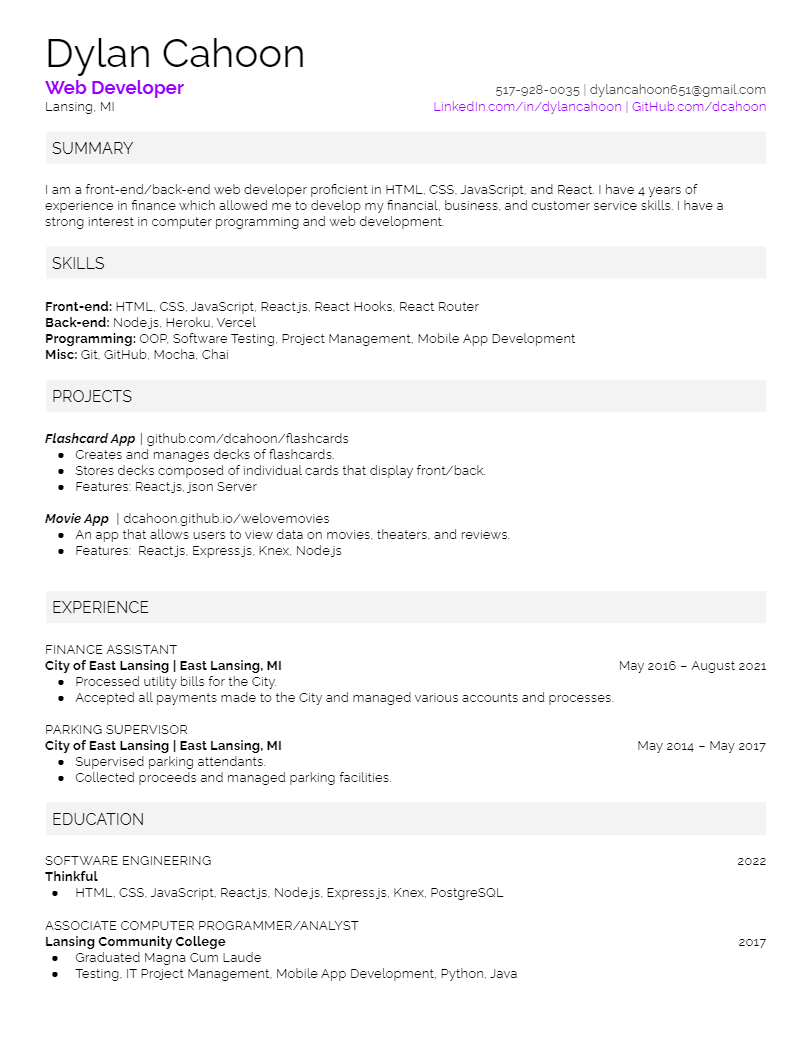
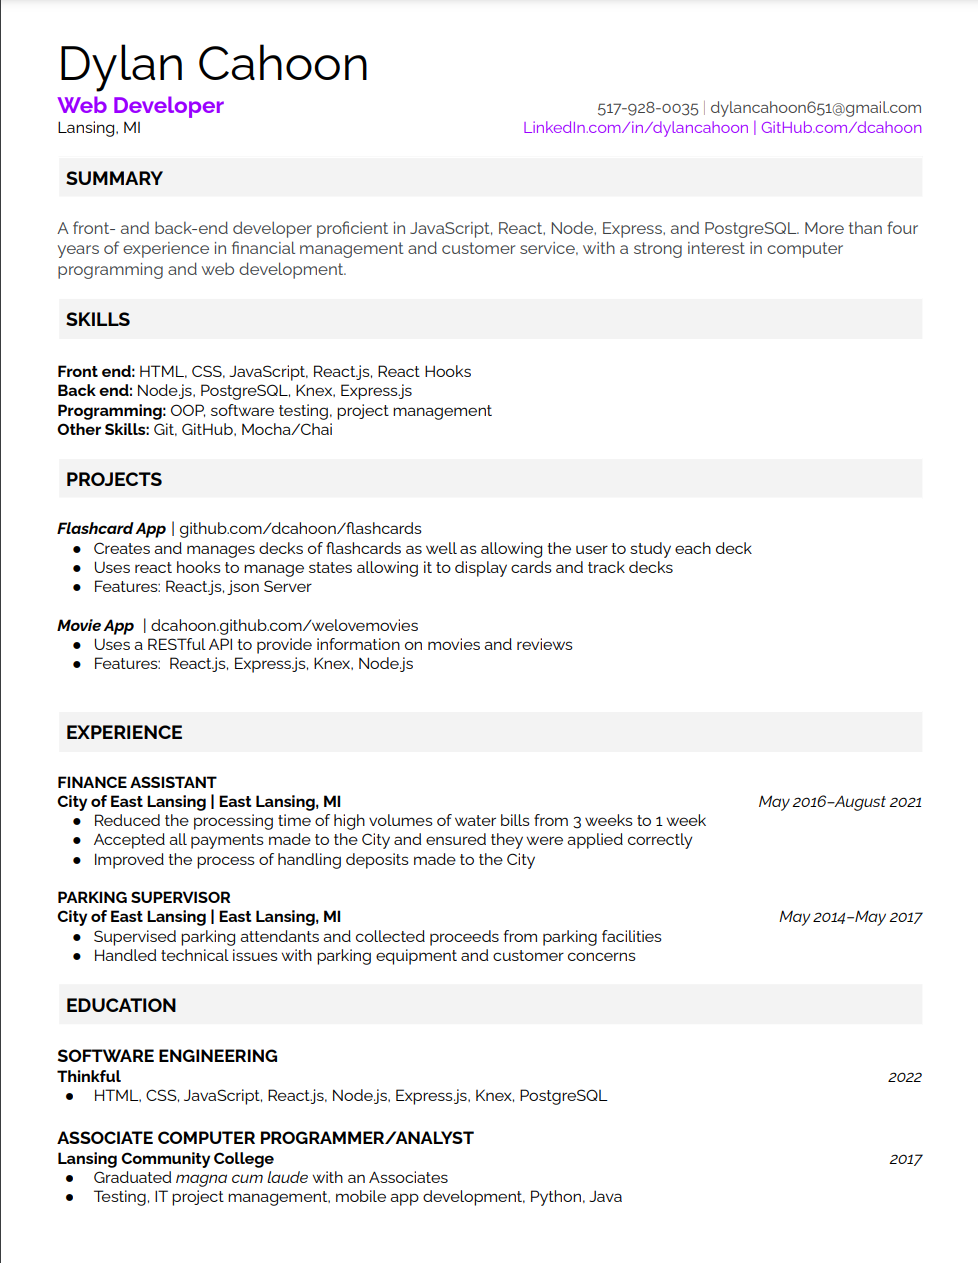
added resume and contact content. major styling/background changes

diff --git a/src/AltApp.js b/src/AltApp.js
@@ -12,6 +12,11 @@ import github_icon from "./images/github_icon.jpg"
 import postman_icon from "./images/postman_icon.png"
 import react_router_icon from "./images/react_router_icon.jpg"
 import heroku_icon from "./images/heroku_icon.png"
+import bootstrap_icon from "./images/bootstrap_icon.png"
+import resume from "./images/resume.png"
+import email from "./images/email.png"
+import linkedin from "./images/linkedin.png"
+import github from "./images/github.png"
 
 
 export default function AltApp() {
@@ -55,14 +60,19 @@ export default function AltApp() {
             <section id="resume">
                 <Nav />
                 <div className="row p-5">
-                    <p className="col-12 display-2 p-4">
-                        Resume (content coming soon)
-                    </p>
+                    <div className="col-12 d-flex p-3">
+                        <button className="col-8 large-link btn" href="#">
+                            view resume
+                        </button>
+                        <div className="col-4 d-flex justify-content-center">
+                            <img className="img-fluid p-4 resume align-content-center" src={resume}></img>
+                        </div>
+                    </div> 
                 </div>
             </section>
 
             <section id="skills">
-                <Nav />
+                <Nav black={true} />
                 <div className="row p-5">
                     <p className="display-2 p-4 col-12">Skills</p>
                 </div>
@@ -79,15 +89,28 @@ export default function AltApp() {
                     <img src={react_router_icon} className="icon-img"></img>
                     <img src={postman_icon} className="icon-img"></img>
                     <img src={heroku_icon} className="icon-img"></img>
+                    <img src={bootstrap_icon} className="icon-img"></img>
                 </div>
             </section>
 
             <section id="contact">
                 <Nav />
-                <div className="row p-5">
-                    <p className="col-12 display-2 p-4">
-                        Contact (content coming soon)
-                    </p>
+                <div className="row p-5 d-flex">
+                    <div className="col-12 p-4">
+                        <a href="http://www.linkedin.com/in/dylancahoon" target="_blank">
+                            <img className="img-fluid large-link" src={linkedin}></img>
+                        </a>
+                    </div>
+                    <div className="col-6 p-4">
+                        <a href="https://www.github.com/dcahoon" target="_blank">
+                            <img className="img-fluid large-link" src={github}></img>
+                        </a>
+                    </div>
+                    <div className="col-6 p-4">
+                        <a href="mailto:dylancahoon651@yahoo.com">
+                            <img className="img-fluid large-link" src={email}></img>
+                        </a>
+                    </div>
                 </div>
             </section>
 

diff --git a/src/Nav.js b/src/Nav.js
@@ -3,19 +3,39 @@ export default function Nav({ black }) {
         <nav className="navbar navbar-expand-lg justify-content-end">           
             <ul className="navbar-nav">
                 <li className="nav-item">
-                    { black ? <a className="nav-link-black nav-link" href="#home">home</a> : <a className="nav-link" href="#home">home</a> }
+                    { 
+                        black ?
+                            <a className="nav-link" id="black" href="#home">home</a> :
+                            <a className="nav-link" href="#home">home</a> 
+                    }
                 </li>
                 <li className="nav-item">
-                    <a className="nav-link" href="#about">about</a>
+                    { 
+                        black ?
+                            <a className="nav-link" id="black" href="#about">about</a> :
+                            <a className="nav-link" href="#about">about</a> 
+                    }
                 </li>
                 <li className="nav-item">
-                    <a className="nav-link" href="#resume">resume</a>
+                    { 
+                        black ?
+                            <a className="nav-link" id="black" href="#resume">resume</a> :
+                            <a className="nav-link" href="#resume">resume</a> 
+                    }
                 </li>
                 <li className="nav-item">
-                    <a className="nav-link" href="#skills">skills</a>
+                    { 
+                        black ?
+                            <a className="nav-link" id="black" href="#skills">skills</a> :
+                            <a className="nav-link" href="#skills">skills</a> 
+                    }
                 </li>
                 <li className="nav-item">
-                    <a className="nav-link" href="#contact">contact</a>
+                    { 
+                        black ?
+                            <a className="nav-link" id="black" href="#contact">contact</a> :
+                            <a className="nav-link" href="#contact">contact</a> 
+                    }
                 </li>
             </ul>
         </nav>

diff --git a/src/App.css b/src/App.css
@@ -13,7 +13,7 @@
 .zen-dots { font-family: 'Zen Dots', cursive; }
 .left-margin { margin-left: 5% }
 .white { color: #fff; }
-.black { color: #000; }
+#black { color: #000; }
 .name-header { margin-top: 11rem; }
 .size-1 { font-size: 1rem; }
 .size-1-25 { font-size: 1.25rem }
@@ -45,18 +45,37 @@ section {
 }
 
 .hero-section {
-    background-image: url("./images/hero_image_3.png");
+    background-image: url("./images/hexagons-3.png");
     background-position: center;
     width: 100%;
 }
 
 #resume {
-    background-image: url("./images/purple-8.png");
+    background-image: url("./images/hexagons-2.png");
     background-position: center;
 }
 
+#contact {
+    background-image: url("./images/hexagons-4.png");
+    background-position: center;
+}
 
+.large-link {
+    background-color: #444;
+    font-size: 2rem;
+    height: 100%;
+    color: #fff;
+    padding: 2rem;
+}
+.large-link:hover {
+    background-color: #666;
+    color: #fff;
+}
 
+.resume {
+    max-height: 500px;
+    text-align: center;
+}
 
 .display-1, .display-3, .display-4 {
     margin-left: 5%;
